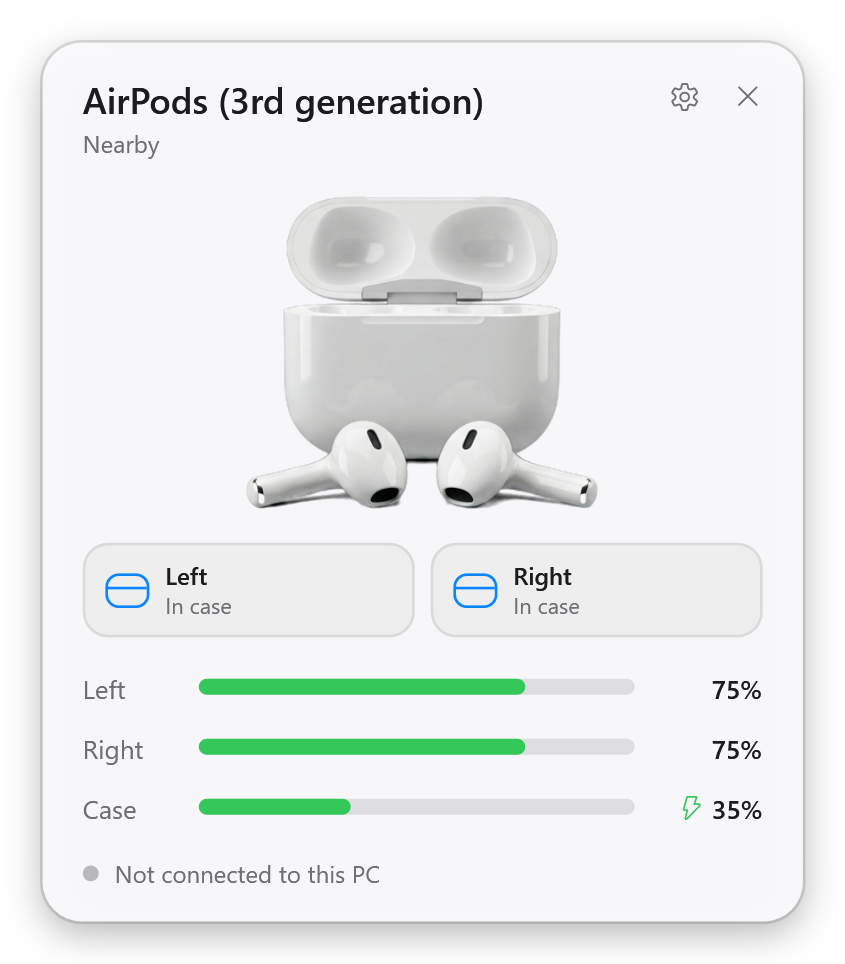
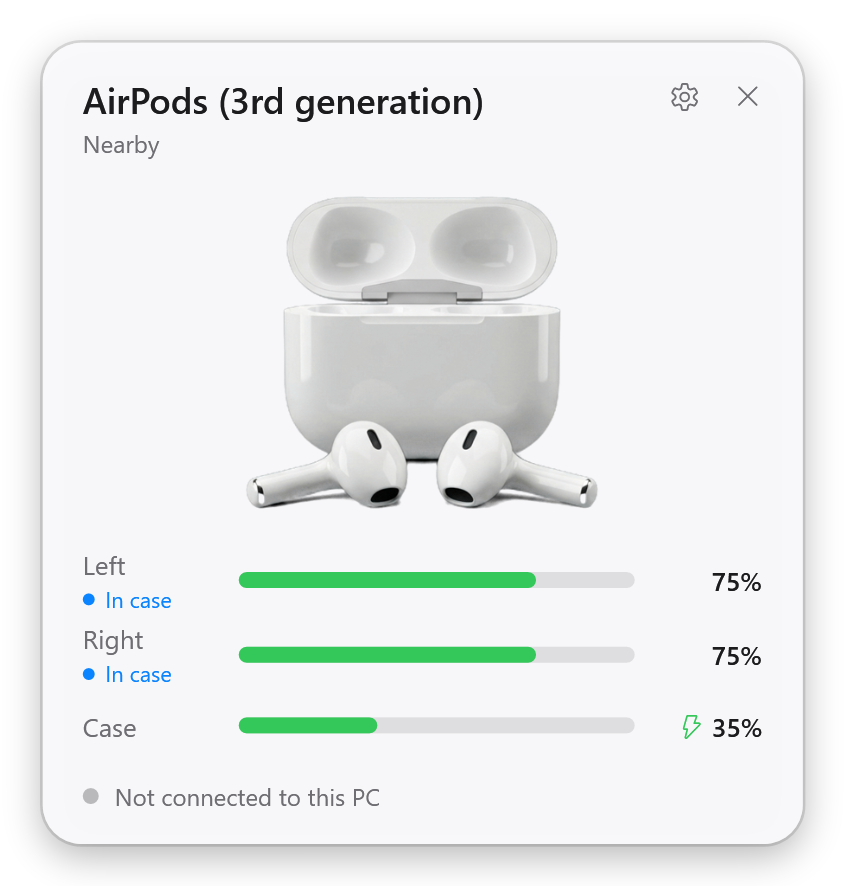
0.2.2: in-ear status inside the Left/Right rows, autostart in tray menu
- Show In ear / Out of ear / In case directly under the Left and Right labels
  instead of separate chips
- Start with Windows can be toggled from the tray menu

diff --git a/src/PodPilot.App/Controls/BatteryBar.xaml b/src/PodPilot.App/Controls/BatteryBar.xaml
@@ -1,14 +1,21 @@
 <UserControl x:Class="PodPilot.App.Controls.BatteryBar"
              xmlns="http://schemas.microsoft.com/winfx/2006/xaml/presentation"
              xmlns:x="http://schemas.microsoft.com/winfx/2006/xaml">
-    <Grid Height="30">
+    <Grid MinHeight="30" Margin="0,2">
         <Grid.ColumnDefinitions>
-            <ColumnDefinition Width="58" />
+            <ColumnDefinition Width="78" />
             <ColumnDefinition Width="*" />
             <ColumnDefinition Width="64" />
         </Grid.ColumnDefinitions>
 
-        <TextBlock x:Name="LabelText" VerticalAlignment="Center" FontSize="13" Foreground="{DynamicResource TextSecondary}" />
+        <StackPanel VerticalAlignment="Center">
+            <TextBlock x:Name="LabelText" FontSize="13" Foreground="{DynamicResource TextSecondary}" />
+            <!-- Where the earbud is: In ear / Out of ear / In case -->
+            <StackPanel x:Name="StatusPanel" Orientation="Horizontal" Margin="0,1,0,0" Visibility="Collapsed">
+                <Ellipse x:Name="StatusDot" Width="6" Height="6" VerticalAlignment="Center" Margin="0,1,5,0" />
+                <TextBlock x:Name="StatusText" FontSize="11" VerticalAlignment="Center" />
+            </StackPanel>
+        </StackPanel>
 
         <Border x:Name="Track" Grid.Column="1" Height="8" CornerRadius="4" VerticalAlignment="Center"
                 Background="{DynamicResource BarTrack}" SizeChanged="OnTrackSizeChanged">

diff --git a/src/PodPilot.App/Controls/DevicePanel.xaml b/src/PodPilot.App/Controls/DevicePanel.xaml
@@ -18,11 +18,6 @@
                 <c:DeviceArt x:Name="CaseArt" Grid.Column="1" ShowCase="True" Width="96" Margin="8,40,0,20" />
             </Grid>
 
-            <UniformGrid x:Name="PodChips" Columns="2" Margin="0,0,0,10">
-                <c:PodStatusChip x:Name="LeftChip" Margin="0,0,4,0" />
-                <c:PodStatusChip x:Name="RightChip" Margin="4,0,0,0" IsRight="True" />
-            </UniformGrid>
-
             <c:BatteryBar x:Name="LeftBar" Label="Left" />
             <c:BatteryBar x:Name="RightBar" Label="Right" />
             <c:BatteryBar x:Name="CaseBar" Label="Case" />

diff --git a/src/PodPilot.App/Services/TrayIcon.cs b/src/PodPilot.App/Services/TrayIcon.cs
@@ -36,7 +36,7 @@ public sealed partial class TrayIcon : IDisposable
     string _lastKey = string.Empty;
     bool _added;
 
-    public TrayIcon()
+    public TrayIcon(AppSettings settings)
     {
         _window = new HwndSource(new HwndSourceParameters("PodPilotTray") { Width = 0, Height = 0, WindowStyle = 0 });
         _window.AddHook(WndProc);
@@ -46,10 +46,15 @@ public sealed partial class TrayIcon : IDisposable
         _currentIcon = _appIcon;
 
         _menu = new ContextMenu { Placement = PlacementMode.MousePoint };
-        _menu.Items.Add(MenuItem("Show battery", () => ShowPopup?.Invoke(this, EventArgs.Empty)));
-        _menu.Items.Add(MenuItem("Settings", () => OpenSettings?.Invoke(this, EventArgs.Empty)));
+        _menu.Items.Add(CreateMenuItem("Show battery", () => ShowPopup?.Invoke(this, EventArgs.Empty)));
+        _menu.Items.Add(CreateMenuItem("Settings", () => OpenSettings?.Invoke(this, EventArgs.Empty)));
         _menu.Items.Add(new Separator());
-        _menu.Items.Add(MenuItem("Exit", () => ExitRequested?.Invoke(this, EventArgs.Empty)));
+        var autoStart = new MenuItem { Header = "Start with Windows", IsCheckable = true };
+        autoStart.SetBinding(MenuItem.IsCheckedProperty,
+            new System.Windows.Data.Binding(nameof(AppSettings.StartWithWindows)) { Source = settings, Mode = System.Windows.Data.BindingMode.TwoWay });
+        _menu.Items.Add(autoStart);
+        _menu.Items.Add(new Separator());
+        _menu.Items.Add(CreateMenuItem("Exit", () => ExitRequested?.Invoke(this, EventArgs.Empty)));
 
         Apply(NIM_ADD);
     }
@@ -143,7 +148,7 @@ public sealed partial class TrayIcon : IDisposable
         szInfoTitle = string.Empty,
     };
 
-    static MenuItem MenuItem(string header, Action action)
+    static MenuItem CreateMenuItem(string header, Action action)
     {
         var item = new MenuItem { Header = header };
         item.Click += (_, _) => action();

diff --git a/src/PodPilot.App/Controls/BatteryBar.xaml.cs b/src/PodPilot.App/Controls/BatteryBar.xaml.cs
@@ -36,6 +36,36 @@ public partial class BatteryBar : UserControl
         }
     }
 
+    PodPlacement _placement = PodPlacement.Unknown;
+
+    /// <summary>Shows where the earbud is under its label. Unknown hides the line.</summary>
+    public PodPlacement Placement
+    {
+        get => _placement;
+        set
+        {
+            if (_placement == value)
+                return;
+            bool wasShown = _placement != PodPlacement.Unknown;
+            _placement = value;
+
+            (string text, string brush) = value switch
+            {
+                PodPlacement.InEar => ("In ear", "BatteryGood"),
+                PodPlacement.OutOfEar => ("Out of ear", "TextSecondary"),
+                PodPlacement.InCase => ("In case", "Accent"),
+                _ => (string.Empty, "TextSecondary"),
+            };
+            StatusPanel.Visibility = value == PodPlacement.Unknown ? Visibility.Collapsed : Visibility.Visible;
+            StatusText.Text = text;
+            StatusText.SetResourceReference(TextBlock.ForegroundProperty, brush);
+            StatusDot.SetResourceReference(System.Windows.Shapes.Shape.FillProperty, brush);
+            // Fade in on a change (an AirPod taken out), not on first display.
+            if (wasShown)
+                StatusPanel.BeginAnimation(OpacityProperty, new DoubleAnimation(0, 1, TimeSpan.FromMilliseconds(300)));
+        }
+    }
+
     void OnTrackSizeChanged(object sender, SizeChangedEventArgs e) => Render(animate: false);
 
     void Render(bool animate)

diff --git a/src/PodPilot.App/Controls/DevicePanel.xaml.cs b/src/PodPilot.App/Controls/DevicePanel.xaml.cs
@@ -65,9 +65,8 @@ public partial class DevicePanel : UserControl
         RightBar.State = Exact(aap?.Right) ?? snapshot.Right;
         CaseBar.State = Exact(aap?.Case) ?? snapshot.Case;
         SingleBar.State = Exact(aap?.Single) ?? snapshot.Single;
-        PodChips.Visibility = hasCase ? Visibility.Visible : Visibility.Collapsed;
-        LeftChip.Placement = Placement(snapshot.LeftInEar, snapshot.LeftInCase, snapshot.Left.IsKnown);
-        RightChip.Placement = Placement(snapshot.RightInEar, snapshot.RightInCase, snapshot.Right.IsKnown);
+        LeftBar.Placement = Placement(snapshot.LeftInEar, snapshot.LeftInCase, snapshot.Left.IsKnown);
+        RightBar.Placement = Placement(snapshot.RightInEar, snapshot.RightInCase, snapshot.Right.IsKnown);
 
         bool hasNoiseControl = aap is not null && device.NoiseControl != NoiseControlSupport.None;
         NoiseBar.Visibility = hasNoiseControl ? Visibility.Visible : Visibility.Collapsed;

diff --git a/src/PodPilot.App/App.xaml.cs b/src/PodPilot.App/App.xaml.cs
@@ -77,7 +77,7 @@ public partial class App : Application
         Theme.Initialize(this);
         AutoStart.Apply(_settings.StartWithWindows);
 
-        _tray = new TrayIcon();
+        _tray = new TrayIcon(_settings);
         _tray.ShowPopup += (_, _) => TogglePopup();
         _tray.OpenSettings += (_, _) => ShowSettings();
         _tray.ExitRequested += (_, _) => Shutdown();

diff --git a/src/PodPilot.App/Controls/PodPlacement.cs b/src/PodPilot.App/Controls/PodPlacement.cs
@@ -1,0 +1,9 @@
+namespace PodPilot.App.Controls;
+
+public enum PodPlacement
+{
+    Unknown,
+    InEar,
+    OutOfEar,
+    InCase,
+}
